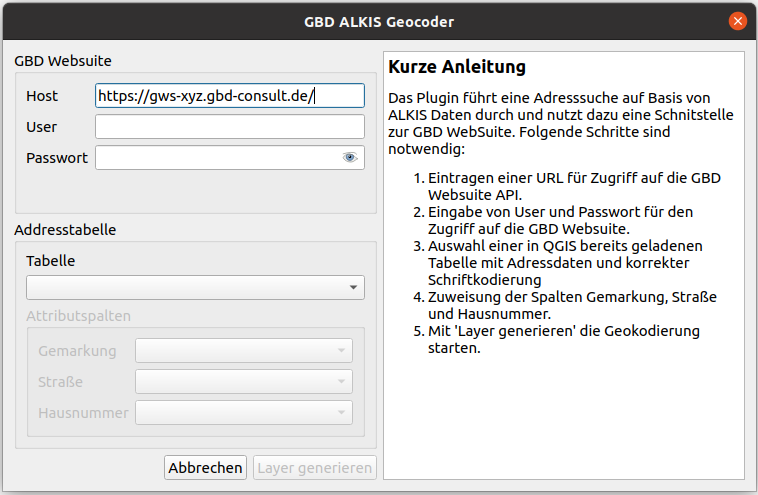
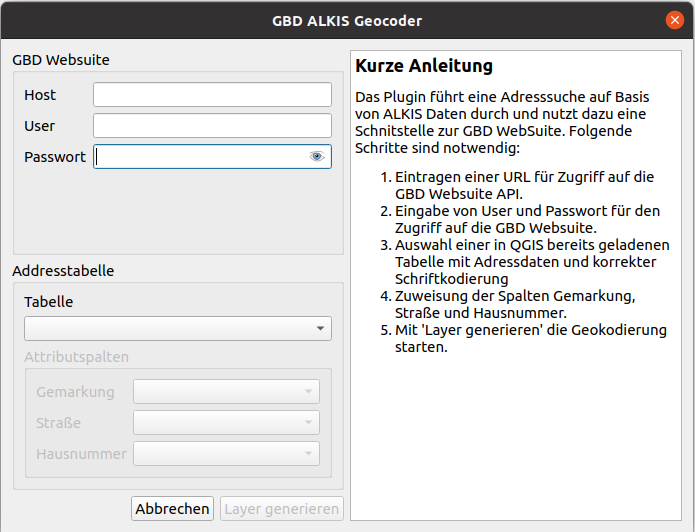
ALKIS Geocoder Hilfe

Changed region(s): [[0.0, 0.0, 0.9971, 1.0], [0.4835, 0.4545, 0.5137, 0.5152]]

diff --git a/README.md b/README.md
@@ -9,7 +9,7 @@ So können für beliebige Adressen lat und lon Werte schnell gefunden und zugeor
 Durch eine Authentifizierung per User und Passwort, kann diese Funktion nur für verifizierte Nutzer bereitgestellt werden.
 Dazu wird eine Schnitstelle zur GBD WebSuite genutzt.
 
-## <img src="/images/.png" width="300">
+<img src="/images/geocoder_blank.png" width="300">
 
 
 Installation
@@ -24,9 +24,9 @@ Das Plugin kann über das Menü Erweiterungen -> GBD ALKIS Geocoder geladen werd
 
 Bedienung
 ---------
-## Wenn Sie den GBD ALKIS Geocoder geöffnet haben, finden Sie folgendes Fenster vor:
+Wenn Sie den GBD ALKIS Geocoder geöffnet haben, finden Sie folgendes Fenster vor:
 
-## <img src="/images/geocoder_blank.png" width="300">
+<img src="/images/geocoder_blank.png" width="300">
 
 Zuerst müssen Sie eine URL eintragen die Ihnen Zugriff auf die GBD Websuite API ermöglicht.
 ## Muss diese vorher bei uns angelegt oder angefragt werden? Woher bekommt man diese?
@@ -38,7 +38,7 @@ Jetzt müssen Sie noch die Spalten Gemarkung, Straße und Hausnummer  manuell zu
 Über den Button 'Layer generieren' starten Sie die Geokodierung.
 Nun wird ein neuer Punktlayer mit lat und lon werten generiert.
 
-## <img src="/images/geocoder_filled.png" width="300">
+<img src="/images/geocoder_filled.png" width="300">
 
 Das Plugin wurde zuletzt im April 2020 aktualisiert.
 
